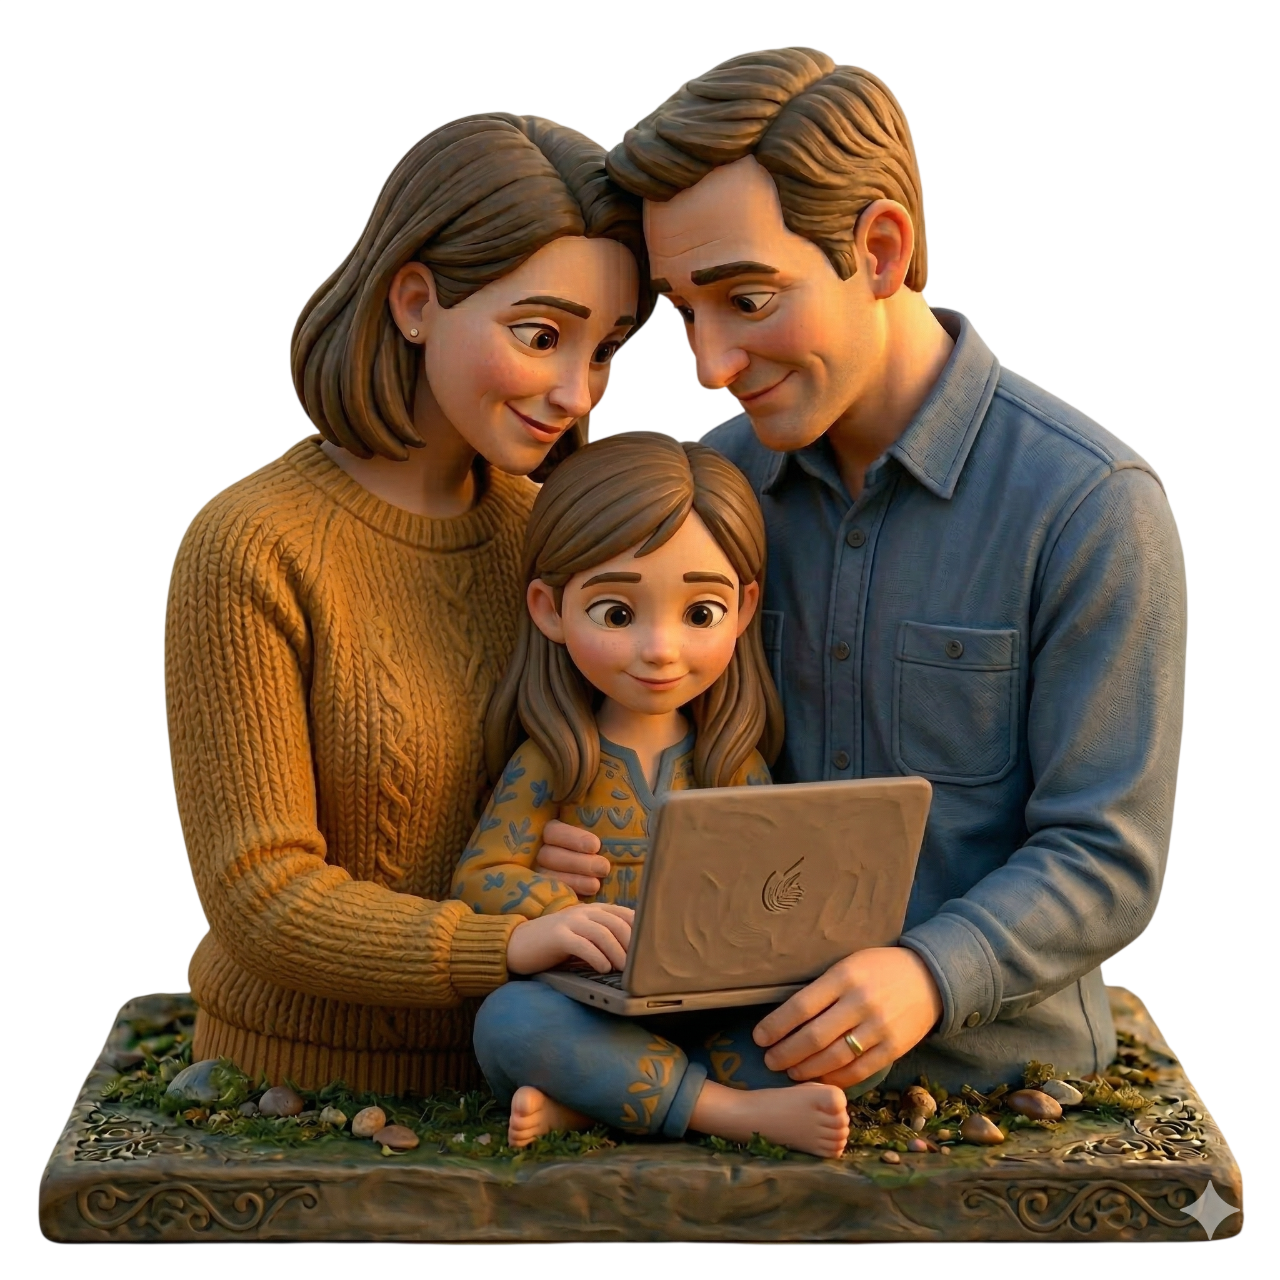
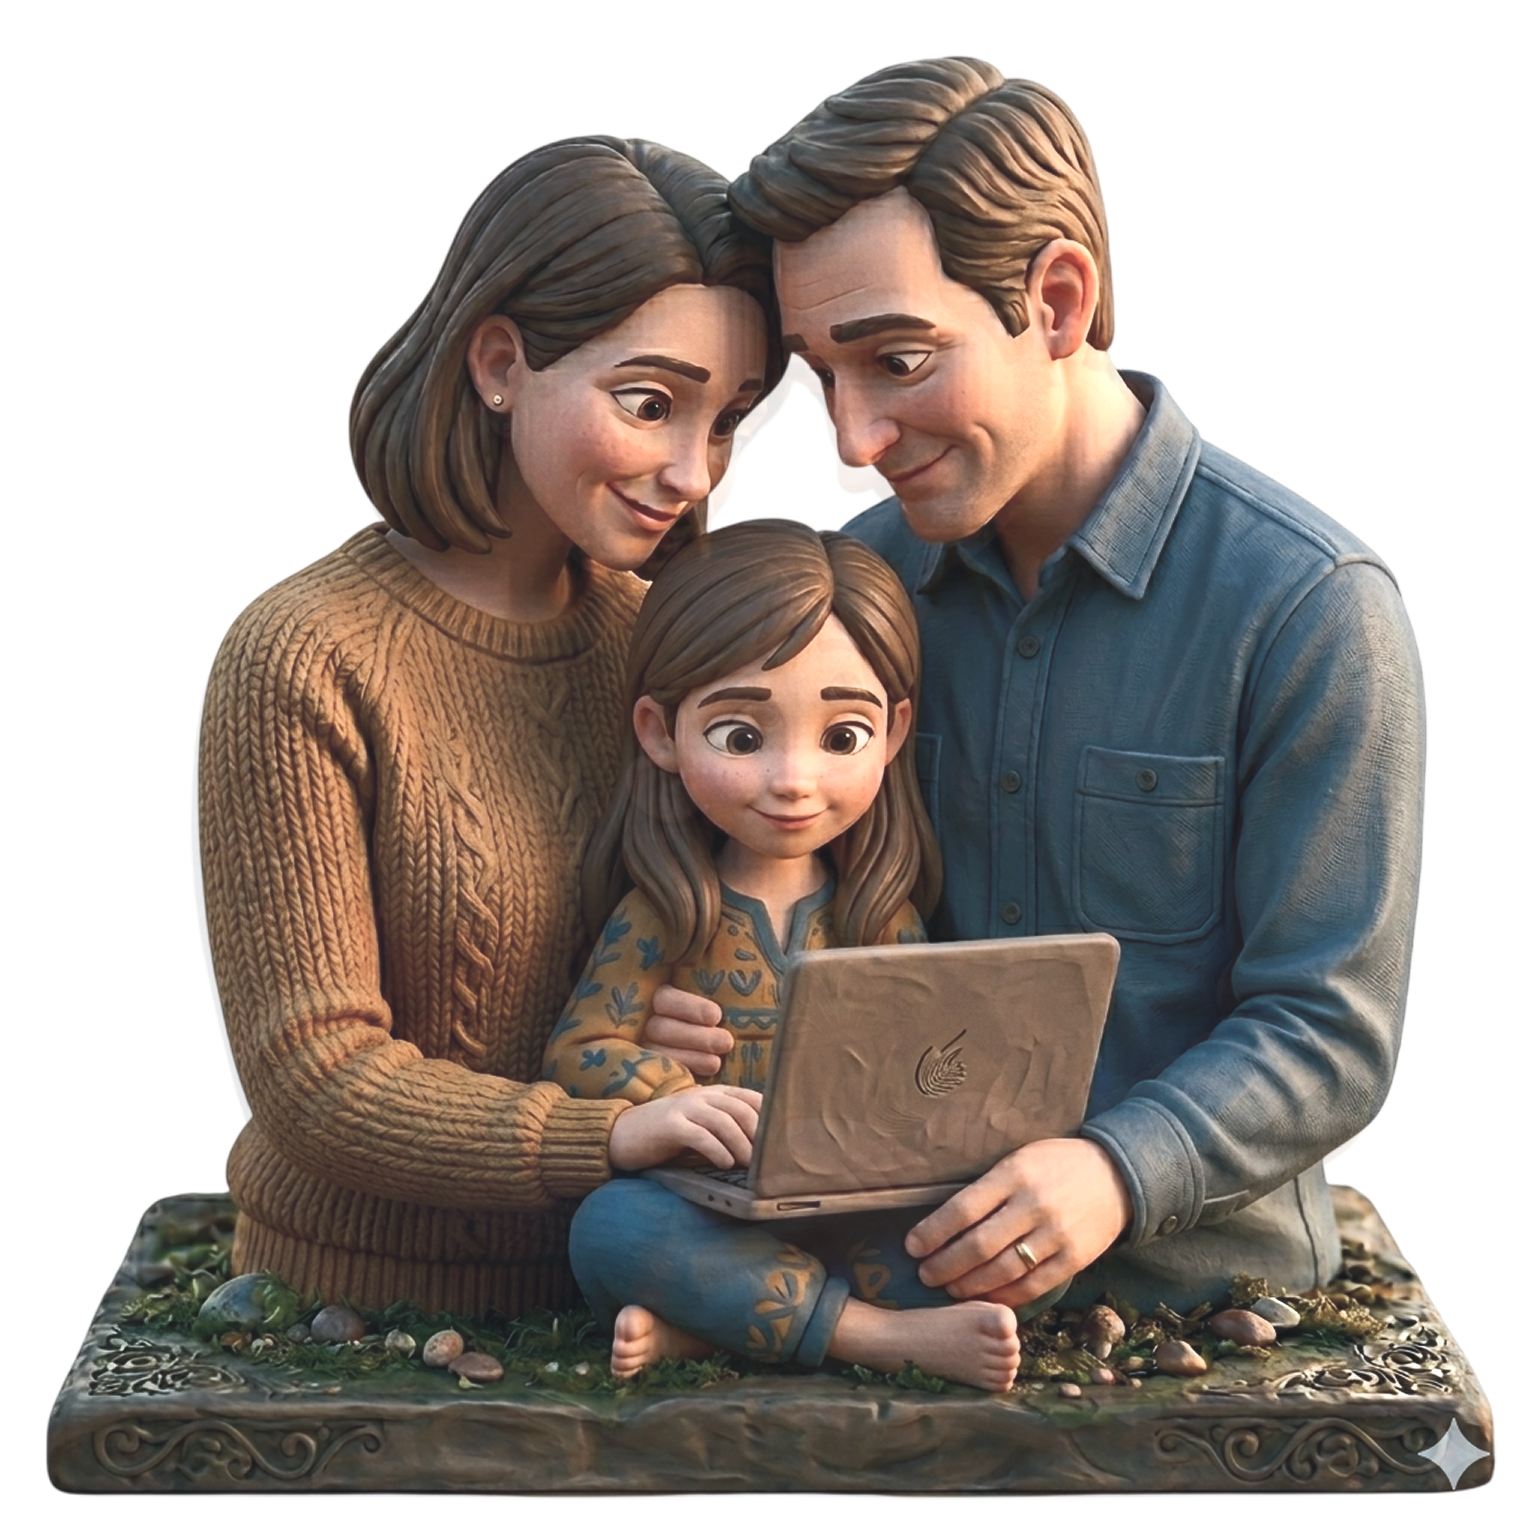
Add tablet-portrait mixin and improve responsive navigation

diff --git a/src/assets/scss/components/_hero.scss b/src/assets/scss/components/_hero.scss
@@ -23,12 +23,23 @@
   
   background: var(--hero-bg);
   color: var(--hero-text);
-  padding: $spacing-2xl $spacing-lg ($spacing-2xl - 20px);
   position: relative;
   overflow: hidden;
   
   @include mobile {
-    padding: $spacing-xl $spacing-md ($spacing-xl - 20px);
+    padding: $spacing-md $spacing-sm;
+  }
+
+  @include tablet-portrait {
+    padding: $spacing-lg $spacing-md;
+  }
+
+  @include tablet {
+    padding: $spacing-lg $spacing-md;
+  }
+
+  @include desktop {
+    padding: $spacing-2xl $spacing-lg ($spacing-2xl - 20px);
   }
   
   &::before {
@@ -43,13 +54,6 @@
     background-size: 10px 10px;
     pointer-events: none;
     z-index: 1;
-    
-    @include mobile {
-      width: 400px;
-      height: 400px;
-      top: -50px;
-      right: -50px;
-    }
   }
   
   // Accent border bottom
@@ -73,10 +77,33 @@
 .hero-inner {
   @include container;
 
-  left: 200px;
   position: relative;
-  width: $max-width-content;
   z-index: 2;
+  
+  @include mobile {
+    left: 0;
+    padding: 0 $spacing-xs;
+    width: 100%;
+  }
+
+  @include tablet-portrait {
+    left: 0;
+    padding: 0;
+  }
+
+  @include tablet {
+    left: 0;
+    margin: 0;
+    padding: 0 100px 0 0;
+    width: 70%;
+  }
+
+  @include desktop {
+    left: 200px;
+    margin: 0 auto;
+    padding: 0;
+    width: (#{$max-width-content - 100px});
+  }
   
   > *:not(:last-child) {
     animation: fadeUp 0.6s ease backwards;
@@ -89,13 +116,35 @@
   > *:nth-child(4) { animation-delay: 0.4s; }
 
   img {
-    position: absolute;
-    bottom: -150px;
-    left: 0;
-    width: 800px;
+    display: none;
     height: auto;
-    transform: translateX(-90%);
+    position: absolute;
     z-index: 1;
+
+    @include tablet-portrait {
+        display: block;
+        left: 65%;
+        bottom: -80px;
+        transform: translateX(-50%);
+        width: 500px;
+    }
+
+    @include tablet {
+        display: block;
+        right: 0;
+        bottom: -120px;
+        width: 100%;
+        transform: translateX(60%);
+        left: unset;
+    }
+
+    @include desktop {
+      bottom: -150px;
+      left: 0;
+      transform: translateX(-94%);
+      width: 700px;
+    }
+
   }
 
 }
@@ -113,6 +162,11 @@
   padding: $spacing-xs $spacing-sm;
   border-radius: $radius-sm;
   margin-bottom: $spacing-md;
+
+  @include mobile {
+    display: none;
+  }
+
 }
 
 .hero h1 {
@@ -132,9 +186,13 @@
 .hero-lead {
   font-size: clamp(1rem, 2vw, 1.15rem);
   line-height: 1.6;
-  margin-bottom: $spacing-lg;
   color: var(--hero-text-dim);
   max-width: 700px;
+  
+  @include tablet {
+    margin-bottom: $spacing-lg;
+  }
+
 }
 
 // Hero stats (3 columns)
@@ -147,7 +205,17 @@
   @include mobile {
     grid-template-columns: 1fr;
     gap: $spacing-sm;
+    margin-top: $spacing-xs;
   }
+
+  @include tablet-portrait {
+    gap: $spacing-sm;
+    grid-template-columns: unset;
+    grid-template-rows: repeat(3, 1fr);
+    margin-top: $spacing-lg;
+    width: fit-content;
+  }
+
 }
 
 .stat-item {
@@ -155,6 +223,22 @@
   background: var(--stat-bg);
   border-radius: $radius-md;
   border: 1px solid var(--stat-border);
+
+  @include mobile {
+    display: flex;
+    flex-direction: row;
+    align-items: center;
+    gap: $spacing-sm;
+    padding: $spacing-sm;
+  }
+
+  @include tablet-portrait {
+    display: flex;
+    flex-direction: row;
+    align-items: center;
+    gap: $spacing-sm;
+    padding: $spacing-sm;
+  }
   
   .stat-number {
     font-size: clamp(1.8rem, 3vw, 2.4rem);
@@ -163,12 +247,13 @@
     font-family: $font-display;
     display: block;
     margin-bottom: $spacing-xs;
+    white-space: nowrap;
   }
   
   .stat-label {
     font-size: 0.85rem;
     color: var(--stat-label);
-    line-height: 1.4;
+    line-height: 1;
   }
 
 }

diff --git a/src/assets/scss/_mixins.scss b/src/assets/scss/_mixins.scss
@@ -14,8 +14,14 @@
   }
 }
 
+@mixin tablet-portrait {
+  @media (min-width: $breakpoint-tablet) and (max-width: $breakpoint-desktop) {
+    @content;
+  }
+}
+
 @mixin desktop {
-  @media (min-width: $breakpoint-desktop) {
+  @media (min-width: #{$breakpoint-desktop + 1}) {
     @content;
   }
 }

diff --git a/src/assets/scss/components/_cards.scss b/src/assets/scss/components/_cards.scss
@@ -45,6 +45,11 @@
   display: flex;
   flex-direction: column;
   gap: $spacing-md;
+  
+  @include mobile {
+    padding: $spacing-sm;
+  }
+
   @include card-hover;
   
   .card-icon {

diff --git a/src/assets/scss/layouts/_sections.scss b/src/assets/scss/layouts/_sections.scss
@@ -6,12 +6,13 @@ section {
   padding: $spacing-xl $spacing-lg;
   
   @include mobile {
-    padding: $spacing-lg $spacing-md;
+    padding: $spacing-md $spacing-sm;
   }
 }
 
 .section-inner {
   @include container;
+  padding: 0 $spacing-xs;
 }
 
 .section-wide {